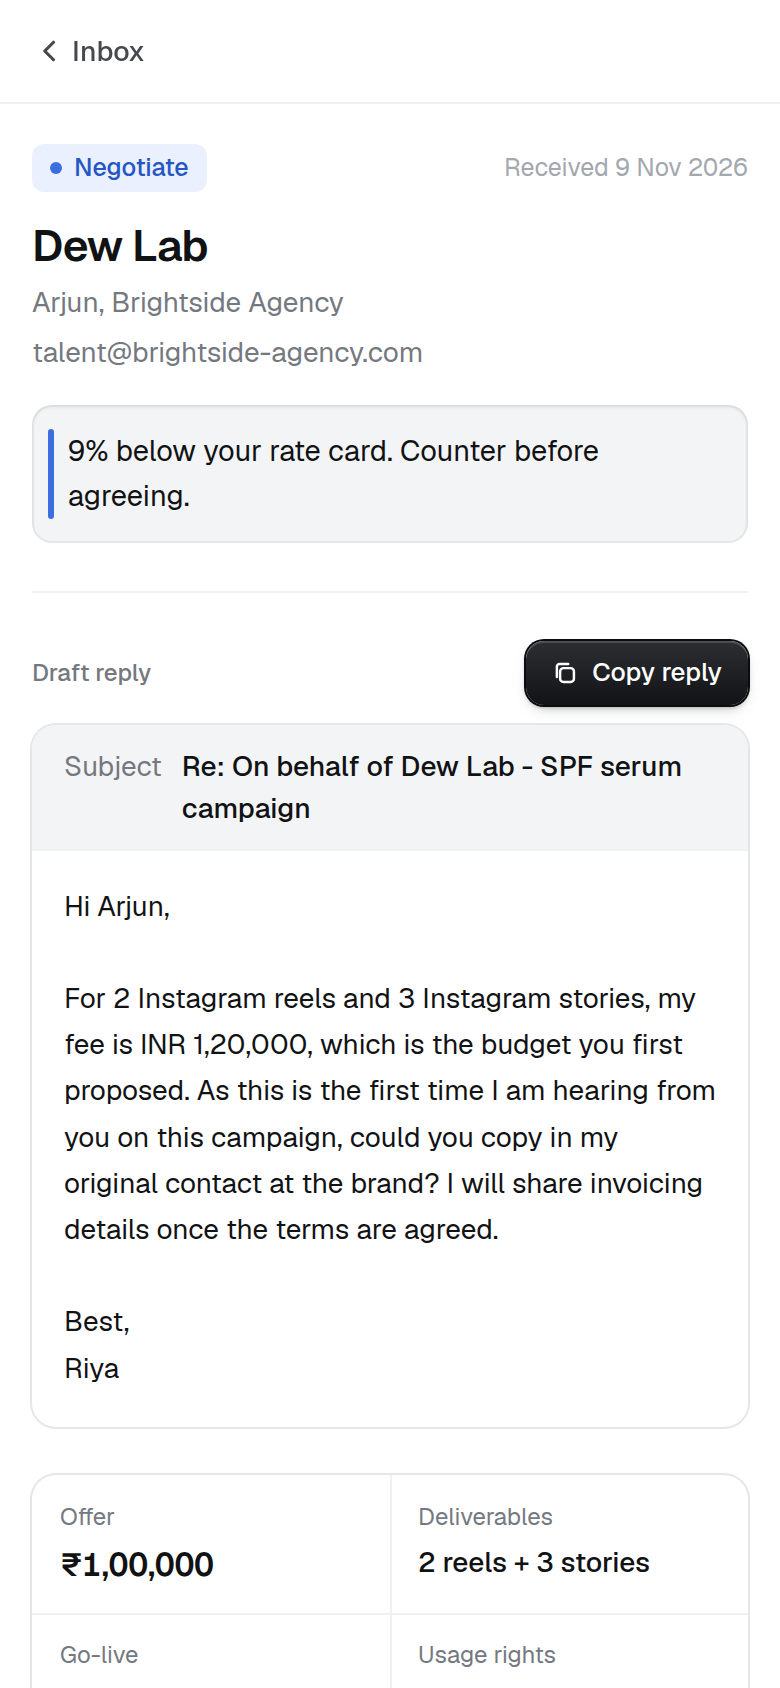
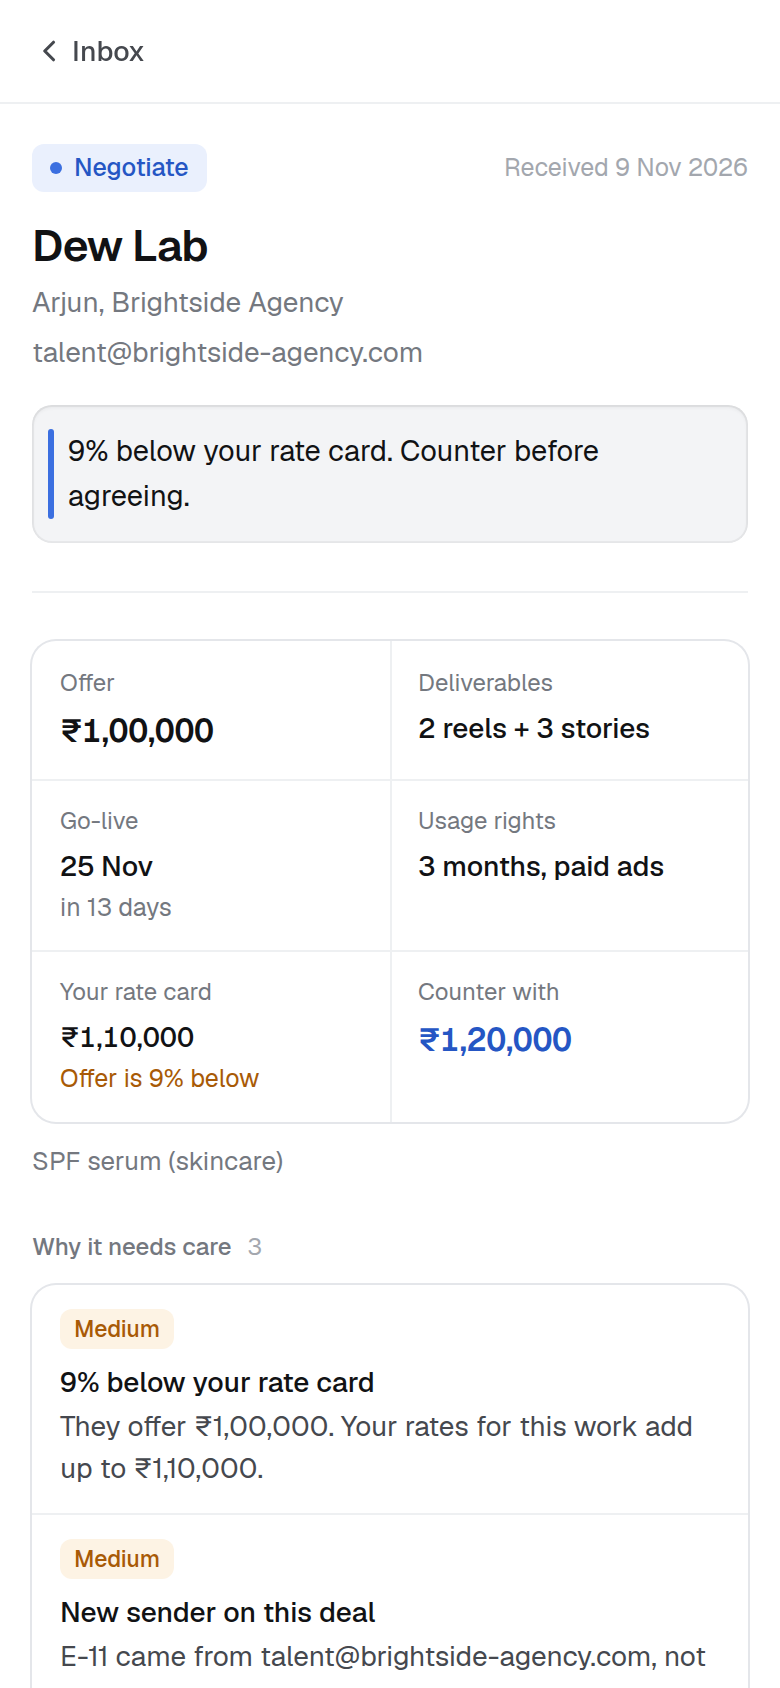
Inbox UI: keep the draft after terms and risks; scam warning leads

Changed region(s): [[0.0308, 0.5853, 0.8923, 1.0], [0.0308, 0.3697, 0.9846, 0.5545], [0.8615, 0.955, 0.8923, 0.9858]]

diff --git a/web/App.tsx b/web/App.tsx
@@ -251,8 +251,8 @@ function Detail({ deal, mobile, onBack }: { deal: Deal; mobile: boolean; onBack:
           <p className={`d-why t-${tone(deal)}`}>{deal.why}</p>
         </header>
 
-        <section className="block">
-          {scam ? (
+        {scam && (
+          <section className="block">
             <div className="warning" role="alert">
               <svg viewBox="0 0 20 20" width="18" height="18" aria-hidden>
                 <path d="M10 2.5 18 17H2L10 2.5Z" fill="none" stroke="currentColor" strokeWidth="1.6" strokeLinejoin="round" />
@@ -263,12 +263,8 @@ function Detail({ deal, mobile, onBack }: { deal: Deal; mobile: boolean; onBack:
                 <p>This looks like a scam, so there is no draft. Report the sender as phishing in your mail app and delete it. If you clicked something, change your passwords.</p>
               </div>
             </div>
-          ) : deal.draft ? (
-            <Draft draft={deal.draft} />
-          ) : (
-            <p className="none-note">No reply needed.</p>
-          )}
-        </section>
+          </section>
+        )}
 
         {!scam && (
           <section className="block" aria-label="Terms">
@@ -328,6 +324,12 @@ function Detail({ deal, mobile, onBack }: { deal: Deal; mobile: boolean; onBack:
           </section>
         )}
 
+
+        {!scam && (
+          <section className="block">
+            {deal.draft ? <Draft draft={deal.draft} /> : <p className="none-note">No reply needed.</p>}
+          </section>
+        )}
 
         <section className="block">
           <h3 className="label">
